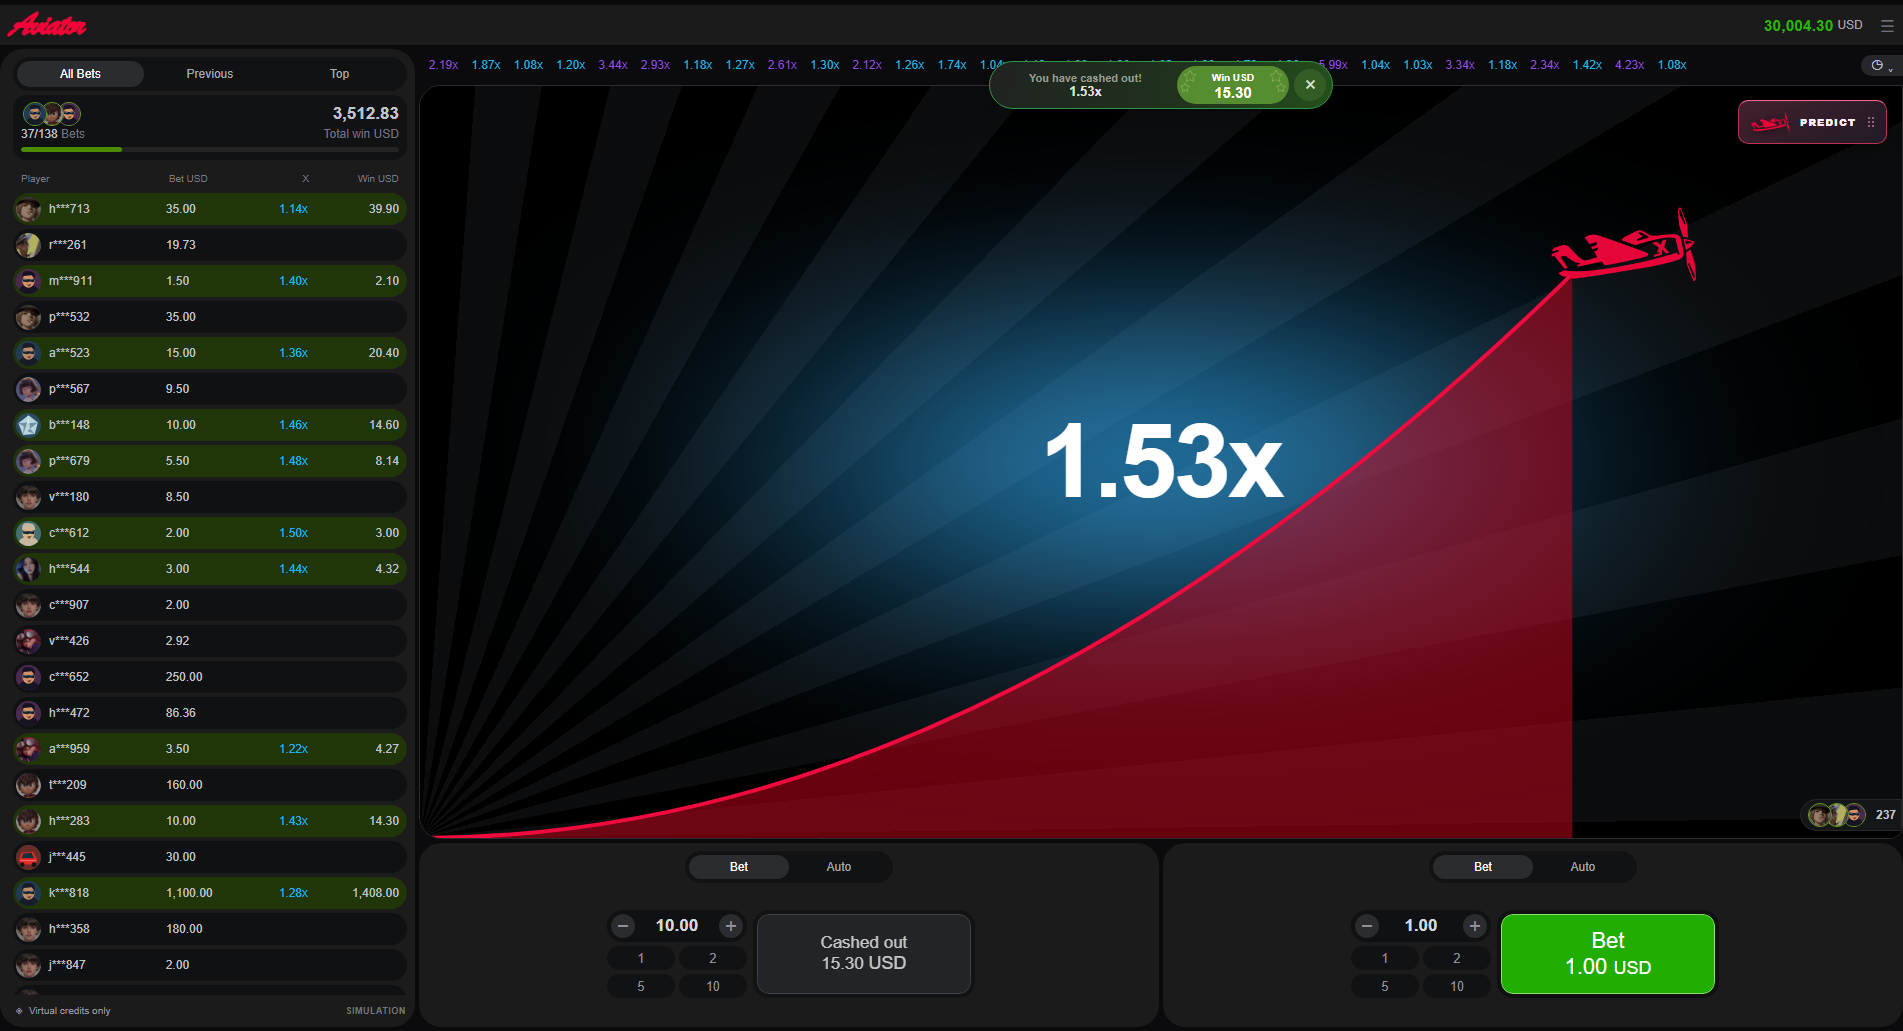
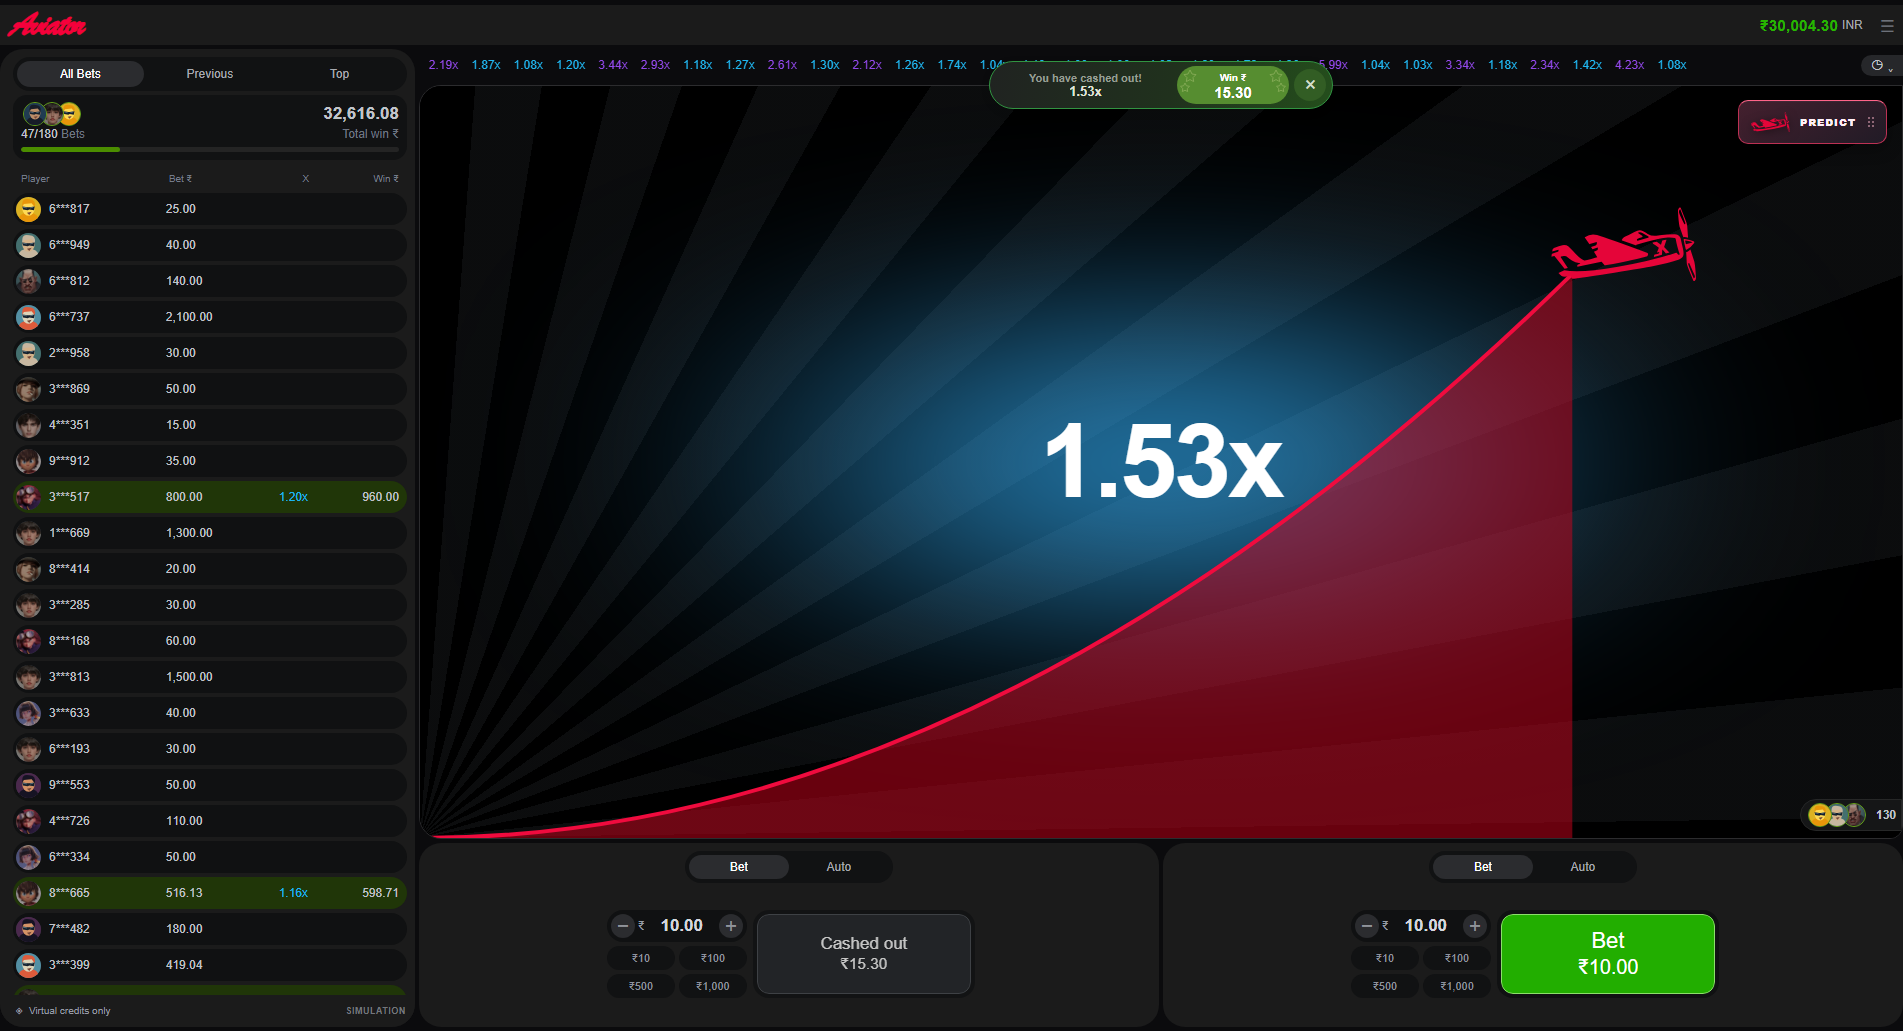
Switch Studio to INR with rupee presets and numeric masked IDs

diff --git a/app.js b/app.js
@@ -8,21 +8,26 @@
   if (typeof disclaimer.text === 'string') banner.textContent = disclaimer.text;
   if (typeof disclaimer.tooltip === 'string') banner.title = disclaimer.tooltip;
   const fmt = value => Number(value).toFixed(2);
+  const betting = {defaultStake: 10, minStake: 10, maxStake: 100000, step: 10, presets: [10, 100, 500, 1000], ...cfg.betting};
+  const stakeValue = value => Number.isFinite(Number(value)) ? Math.min(betting.maxStake, Math.max(betting.minStake, Math.round(Number(value) * 100) / 100)) : betting.defaultStake;
+  const locale = cfg.locale || (cfg.currency === 'INR' ? 'en-IN' : 'en-US');
+  const money = new Intl.NumberFormat(locale, {minimumFractionDigits: 2, maximumFractionDigits: 2});
+  const currencyMoney = new Intl.NumberFormat(locale, {style: 'currency', currency: cfg.currency, minimumFractionDigits: 2, maximumFractionDigits: 2});
+  const currencySymbol = currencyMoney.formatToParts(0).find(part => part.type === 'currency').value;
+  const presetMoney = new Intl.NumberFormat(locale, {style: 'currency', currency: cfg.currency, minimumFractionDigits: 0, maximumFractionDigits: 2});
   const flight = new window.FlightRenderer($('flightSvg'), { ...cfg.flight, growthRate: cfg.growthRate });
-  const panels = Array.from({ length: 2 }, () => ({ stake: 1, state: 'idle', cashMult: null, cashAmount: null, auto: false, autoCash: false, cashAt: 2 }));
+  const panels = Array.from({ length: 2 }, () => ({ stake: stakeValue(betting.defaultStake), state: 'idle', cashMult: null, cashAmount: null, auto: false, autoCash: false, cashAt: 2 }));
   let sequence = 0, phase = 'waiting', phaseStart = performance.now();
   let roundId = 1;
   let paused = false, pausedAt = 0, multiplier = 1, balance = cfg.initialCredits;
   let history = [...cfg.initialHistory], activeTab = 'all';
   const activity = new window.StudioActivity(cfg.activity);
   const rowNodes = new Map();
-  const money = new Intl.NumberFormat('en-US', {minimumFractionDigits: 2, maximumFractionDigits: 2});
   let rowContext = '', leaderKey = '';
   let lastRowsUpdate = -1, toastTimer;
   const duration = point => Math.log(Math.max(1.001, point)) / cfg.growthRate * 1000;
   const colorClass = n => n >= 10 ? 'high' : n >= 2 ? 'mid' : '';
   const locked = b => b.state === 'placed' || b.state === 'queued';
-  const stakeValue = value => Number.isFinite(Number(value)) ? Math.min(100000, Math.max(.1, Math.round(Number(value) * 100) / 100)) : 1;
 
   function avatar(index) {
     const palettes = [['#203c52','#ba8c68','#171c28'],['#4b294d','#d49367','#161323'],['#44706f','#d4b38a','#c7b7a0'],['#ddb222','#ffda56','#e8960a'],['#294b60','#b8d4dd','#6e91a7'],['#692d28','#e62b27','#171a20'],['#5390a4','#ddd4b9','#dd5b3b'],['#658c2f','#f5c445','#c94a31']];
@@ -47,7 +52,7 @@
     notification.className = 'winNotification';
     notification.setAttribute('role', 'status');
     const stars = '<svg class="winStars" viewBox="0 0 112 38" aria-hidden="true"><path d="m13 4 2 4 4 .6-3 3 .7 4-3.7-2-3.7 2 .7-4-3-3 4-.6Z M8 17l1.4 2.8 3.1.5-2.3 2.2.5 3.1L8 24.2l-2.7 1.4.5-3.1-2.3-2.2 3.1-.5Z M99 4l2 4 4 .6-3 3 .7 4-3.7-2-3.7 2 .7-4-3-3 4-.6Z M104 17l1.4 2.8 3.1.5-2.3 2.2.5 3.1-2.7-1.4-2.7 1.4.5-3.1-2.3-2.2 3.1-.5Z"/></svg>';
-    notification.innerHTML = `<div class="winMessage"><span>You have cashed out!</span><strong>${fmt(at)}x</strong></div><div class="winPrize">${stars}<span>Win ${cfg.currency}</span><strong>${fmt(amount)}</strong></div><button class="winClose" aria-label="Dismiss cash-out notification">×</button>`;
+    notification.innerHTML = `<div class="winMessage"><span>You have cashed out!</span><strong>${fmt(at)}x</strong></div><div class="winPrize">${stars}<span>Win ${currencySymbol}</span><strong>${money.format(amount)}</strong></div><button class="winClose" aria-label="Dismiss cash-out notification">×</button>`;
     let timer;
     const dismiss = () => { clearTimeout(timer); notification.remove(); };
     notification.querySelector('button').addEventListener('click', dismiss);
@@ -116,18 +121,19 @@
   }
 
   function updateWallet() {
-    $('wallet').textContent = balance.toLocaleString('en-US', { minimumFractionDigits: 2, maximumFractionDigits: 2 });
+    $('wallet').textContent = currencyMoney.format(balance);
+    $('wallet').setAttribute('aria-label', `Virtual balance: ${currencyMoney.format(balance)}`);
     $('currency').textContent = cfg.currency;
-    document.querySelectorAll('.unit').forEach(el => { el.textContent = cfg.currency; });
+    document.querySelectorAll('.unit').forEach(el => { el.textContent = currencySymbol; });
   }
 
   function updateControls() {
     panels.forEach((b, i) => {
       const button = $('action' + i);
-      let style = '', label = `Bet<br>${fmt(b.stake)} <small>${cfg.currency}</small>`;
+      let style = '', label = `Bet<br><span class="actionAmount">${currencyMoney.format(b.stake)}</span>`;
       button.disabled = false;
-      if (b.state === 'cashed') { style = 'settled'; label = `Cashed out<br>${fmt(b.cashAmount)} <small>${cfg.currency}</small>`; button.disabled = true; }
-      else if (phase === 'flying' && b.state === 'placed') { style = 'cash'; label = `Cash Out<br>${fmt(b.stake * Number(fmt(multiplier)))} <small>${cfg.currency}</small>`; }
+      if (b.state === 'cashed') { style = 'settled'; label = `Cashed out<br><span class="actionAmount">${currencyMoney.format(b.cashAmount)}</span>`; button.disabled = true; }
+      else if (phase === 'flying' && b.state === 'placed') { style = 'cash'; label = `Cash Out<br><span class="actionAmount">${currencyMoney.format(b.stake * Number(fmt(multiplier)))}</span>`; }
       else if (locked(b)) { style = 'pending'; label = `Cancel<br><small>${b.state === 'queued' ? 'Next round' : 'Bet placed'}</small>`; }
       else if (b.state === 'lost') { style = 'settled'; label = `Flew away<br><small>Next round soon</small>`; button.disabled = true; }
       button.className = `action ${style}`;
@@ -143,8 +149,8 @@
   function buildControls() {
     $('controlRow').innerHTML = panels.map((b, i) => `<section class="betPanel" id="panel${i}" aria-label="Virtual bet panel ${i + 1}">
       <div class="seg" aria-label="Bet mode"><button class="selected" data-mode="bet" data-panel="${i}" aria-pressed="true">Bet</button><button data-mode="auto" data-panel="${i}" aria-pressed="false">Auto</button></div>
-      <div class="betBody"><div class="stake"><div class="number"><button data-adjust="-1" data-panel="${i}" aria-label="Decrease stake ${i + 1}">−</button><input id="stake${i}" type="number" min="0.10" max="100000" step="0.10" value="1.00" aria-label="Virtual stake panel ${i + 1}"><button data-adjust="1" data-panel="${i}" aria-label="Increase stake ${i + 1}">+</button></div>
-      <div class="presets">${[1,2,5,10].map(n => `<button data-set="${n}" data-panel="${i}">${n}</button>`).join('')}</div></div><button class="action" id="action${i}" data-action="${i}"></button></div>
+      <div class="betBody"><div class="stake"><div class="number"><button data-adjust="-1" data-panel="${i}" aria-label="Decrease stake ${i + 1} by ${presetMoney.format(betting.step)}">−</button><span class="stakeCurrency" aria-hidden="true">${currencySymbol}</span><input id="stake${i}" type="number" min="${betting.minStake}" max="${betting.maxStake}" step="1" value="${fmt(b.stake)}" aria-label="Virtual stake panel ${i + 1} in ${cfg.currency}"><button data-adjust="1" data-panel="${i}" aria-label="Increase stake ${i + 1} by ${presetMoney.format(betting.step)}">+</button></div>
+      <div class="presets">${betting.presets.map(n => `<button data-set="${n}" data-panel="${i}">${presetMoney.format(n)}</button>`).join('')}</div></div><button class="action" id="action${i}" data-action="${i}"></button></div>
       <div class="autoOptions" id="autoOptions${i}" hidden><label><input type="checkbox" id="autoBet${i}">Auto bet</label><label><input type="checkbox" id="autoCash${i}">Auto cash out</label><input type="number" id="cashAt${i}" min="1.01" step="0.01" max="1000" value="2.00" aria-label="Auto cash out multiplier panel ${i + 1}"></div>
     </section>`).join('');
     $('controlRow').addEventListener('click', event => {
@@ -160,8 +166,8 @@
         return;
       }
       if (locked(b)) return;
-      if ('set' in t.dataset) b.stake = Number(t.dataset.set);
-      if ('adjust' in t.dataset) b.stake = stakeValue(b.stake + Number(t.dataset.adjust));
+      if ('set' in t.dataset) b.stake = stakeValue(t.dataset.set);
+      if ('adjust' in t.dataset) b.stake = stakeValue(b.stake + Number(t.dataset.adjust) * betting.step);
       updateControls();
     });
     $('controlRow').addEventListener('change', event => {

diff --git a/css/creator-studio.css b/css/creator-studio.css
@@ -60,3 +60,25 @@
 @keyframes studio-bet-join { from { opacity: .35; } to { opacity: 1; } }
 @keyframes studio-cashout { from { background-color: #456a18; } to { background-color: #203608; } }
 @media (prefers-reduced-motion: reduce) { .betrow, .betrow.paid { animation: none; } }
+
+/* INR values keep their grouping and symbol together on both bet panels. */
+.app .number input { width: 0; min-width: 0; flex: 1; font-variant-numeric: tabular-nums; }
+.stakeCurrency { flex: 0 0 auto; color: #969da7; font-size: 12px; margin-left: 3px; }
+.app .presets button { font-size: 11px; font-variant-numeric: tabular-nums; white-space: nowrap; }
+.actionAmount { white-space: nowrap; font-variant-numeric: tabular-nums; font-size: .9em; }
+.wallet { font-variant-numeric: tabular-nums; white-space: nowrap; }
+@media (max-width: 420px) { .stakeCurrency { font-size: 10px; margin-left: 2px; } }
+@media (max-width: 760px) {
+    .app .main { grid-template-rows: 32px clamp(300px, 54dvh, 570px) 190px; }
+    .app .main:has(.betPanel.autoMode) { grid-template-rows: 32px clamp(300px, 54dvh, 570px) 240px; }
+    .app .betPanel { padding: 8px; }
+    .app .betBody { flex-direction: column; width: 100%; gap: 7px; margin-top: 9px; }
+    .app .betPanel.autoMode .betBody { margin-top: 9px; }
+    .app .stake { width: 100%; }
+    .app .number { height: 29px; padding: 3px 5px; }
+    .app .number input { font-size: 15px; }
+    .app .presets { grid-template-columns: repeat(4, minmax(0, 1fr)); gap: 3px; margin-top: 3px; }
+    .app .presets button { height: 21px; font-size: 9px; padding: 0; }
+    .app .action { flex: 0 0 auto; width: 100%; height: 57px; min-height: 57px; font-size: 18px; padding: 4px; }
+    .app .autoOptions { margin-top: 8px; }
+}

diff --git a/creator-studio.html b/creator-studio.html
@@ -56,10 +56,10 @@
         </div>
         <div class="betSummary">
           <div class="summaryTop"><div class="avatarStack" id="summaryAvatars"></div><strong id="totalWin">0.00</strong></div>
-          <div class="summaryBottom"><span title="Cashed out / total simulated bets"><b id="count">0/0</b> Bets</span><span>Total win <span class="unit">USD</span></span></div>
+          <div class="summaryBottom"><span title="Cashed out / total simulated bets"><b id="count">0/0</b> Bets</span><span>Total win <span class="unit">₹</span></span></div>
           <div class="summaryTrack"><span id="summaryProgress"></span></div>
         </div>
-        <div class="tableHead"><span>Player</span><span>Bet <span class="unit">USD</span></span><span>X</span><span>Win <span class="unit">USD</span></span></div>
+        <div class="tableHead"><span>Player</span><span>Bet <span class="unit">₹</span></span><span>X</span><span>Win <span class="unit">₹</span></span></div>
         <div class="betrows" id="betrows" role="tabpanel" aria-labelledby="tab-all"></div>
         <footer class="sideFooter"><span>◈ &nbsp;Virtual credits only</span><span>SIMULATION</span></footer>
       </aside>

diff --git a/studio-config.js b/studio-config.js
@@ -18,14 +18,22 @@ globalThis.SIM_CONFIG = {
     propellerFps: 7.5,
     flyAwaySeconds: 0.5,
   },
-  currency: 'USD',              // Display unit for virtual credits only.
+  currency: 'INR',              // Display unit for virtual credits only.
+  locale: 'en-IN',              // Indian digit grouping: 1,00,000.00.
   initialCredits: 29999,
+  betting: {
+    defaultStake: 10,
+    minStake: 10,
+    maxStake: 100000,
+    step: 10,                   // Amount added/subtracted by the +/- buttons.
+    presets: [10, 100, 500, 1000],
+  },
   initialHistory: [2.19, 1.87, 1.08, 1.20, 3.44, 2.93, 1.18, 1.27, 2.61, 1.30, 2.12, 1.26, 1.74, 1.04, 1.18, 1.00, 1.00, 1.02, 1.60, 1.76, 1.30, 5.99, 1.04, 1.03, 3.34, 1.18, 2.34, 1.42, 4.23, 1.08],
   maxDisplayedHistory: 30,
   // Synthetic player activity; amounts use the display currency above.
   activity: {
     players: {min: 120, max: 210},   // Bets per round; join during the countdown.
-    stakes: {min: 1, max: 2500},
+    stakes: {min: 10, max: 25000},
     spectators: {min: 90, max: 260},
     returningShare: 0.65,           // Returning identities from the last round.
     refreshMs: 200,

diff --git a/js/studio-activity.js b/js/studio-activity.js
@@ -16,11 +16,10 @@
       this.spectators = range(settings.spectators, {min: 90, max: 260}, 0, 100000);
       this.returningShare = clamp(finite(settings.returningShare, .65), 0, 1);
       this.refreshMs = clamp(finite(settings.refreshMs, 200), 100, 2000);
-      const letters = 'samrkndjavpbcth';
       const offset = this.integer(0, 899);
       this.profiles = Array.from({length: Math.ceil(this.players.max) * 3}, (_, index) => ({
         id: index + 1,
-        name: `${letters[this.integer(0, letters.length - 1)]}***${100 + (offset + index * 137) % 900}`,
+        name: `${this.integer(1, 9)}***${100 + (offset + index * 137) % 900}`,
         icon: this.integer(0, 9),
         photo: this.random() < .6,
         risk: this.random(),

diff --git a/tests/studio-activity.test.js b/tests/studio-activity.test.js
@@ -22,6 +22,7 @@ test('bets arrive during countdown, retain identity, and stop joining at takeoff
   assert.ok(initial > 0 && middle > initial && rows.length > middle);
   assert.ok(rows.length >= 120 && rows.length <= 210);
   assert.equal(new Set(rows.map(row => row.profile.id)).size, rows.length);
+  assert.ok(rows.every(row => /^\d\*{3}\d{3}$/.test(row.profile.name)), 'Masked player IDs start with digits');
   assert.ok(new Set(rows.map(row => row.stakeCents)).size > 12);
   assert.ok(rows.every(row => row.stakeCents >= 100 && row.stakeCents <= 250000));
   const revision = activity.current.revision;

diff --git a/README.md b/README.md
@@ -72,6 +72,10 @@ for its message, and `disclaimer.tooltip` for its hover description. Set
 `prediction.enabled` to show/hide Studio PREDICT and `prediction.revealDurationMs`
 for the scan duration. Reload Studio after editing. Its entry password stays
 `@creator`; prediction inside Studio still opens directly without another password.
+Studio defaults to INR and `en-IN` grouping, with rupee symbols on the balance,
+stake controls, quick bets, and cash-out displays. `betting` controls the default
+and minimum stake (₹10), maximum, +/- increment (₹10), and the quick-bet presets
+(₹10, ₹100, ₹500, ₹1,000). The starting balance is ₹29,999.00 in virtual credits.
 The Studio PREDICT button starts at the flight area's upper right. Drag it with
 mouse or touch to reposition it within that area; a click or tap opens prediction.
 
@@ -79,9 +83,10 @@ mouse or touch to reposition it within that area; a click or tap opens predictio
 `players.min/max` sets the number of bets per round, `stakes.min/max` the virtual
 stake range, `spectators.min/max` the spectator range, and `returningShare` the
 share drawn from the last round's player identities. `refreshMs` sets the update
-cadence. Players join during the countdown; their individual cash-out intentions
-are sampled independently of the crash multiplier. Unsettled bets lose at crash.
-Row payouts and the total use rounded integer cents, and the counter shows
+cadence. Players keep stable numeric masked IDs such as `7***284` and join during
+the countdown. Their individual cash-out intentions are sampled independently
+of the crash multiplier. Unsettled bets lose at crash.
+Row payouts and the total use rounded minor units (paise for INR), and the counter shows
 cashed-out / placed bets. Previous retains the completed round; Top ranks actual
 simulated cash-outs by payout. These settings do not affect the creator's balance
 or the visitor site, and the existing simulation labels remain in place.

diff --git a/reference/simulation.md b/reference/simulation.md
@@ -36,7 +36,7 @@ Open index.html in Chrome, Edge, Firefox, or Safari. No server, installation, or
 | assets/plane/ | Four original plane SVG frames from the official public demo |
 | config.js | Predetermined results, timing, virtual starting balance, and drawing options |
 
-The display unit defaults to USD to match the reference; it labels virtual credits. The starting balance is 29,999.00. Changing these values never connects the demo to real payments.
+Studio now defaults to INR with Indian digit grouping and a virtual starting balance of ₹29,999.00. Quick bets are ₹10, ₹100, ₹500, and ₹1,000; Studio settings are in studio-config.js. These are display amounts, not a foreign-exchange conversion or a connection to real payments. The original animation reference was measured with the public demo's USD display.
 
 ## Prediction preview configuration
 
